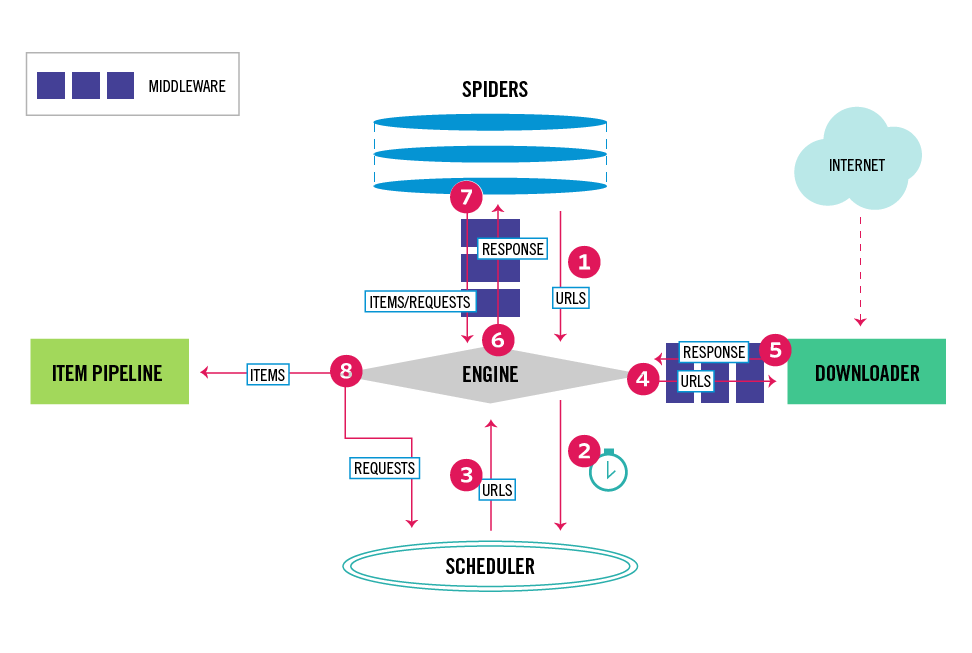
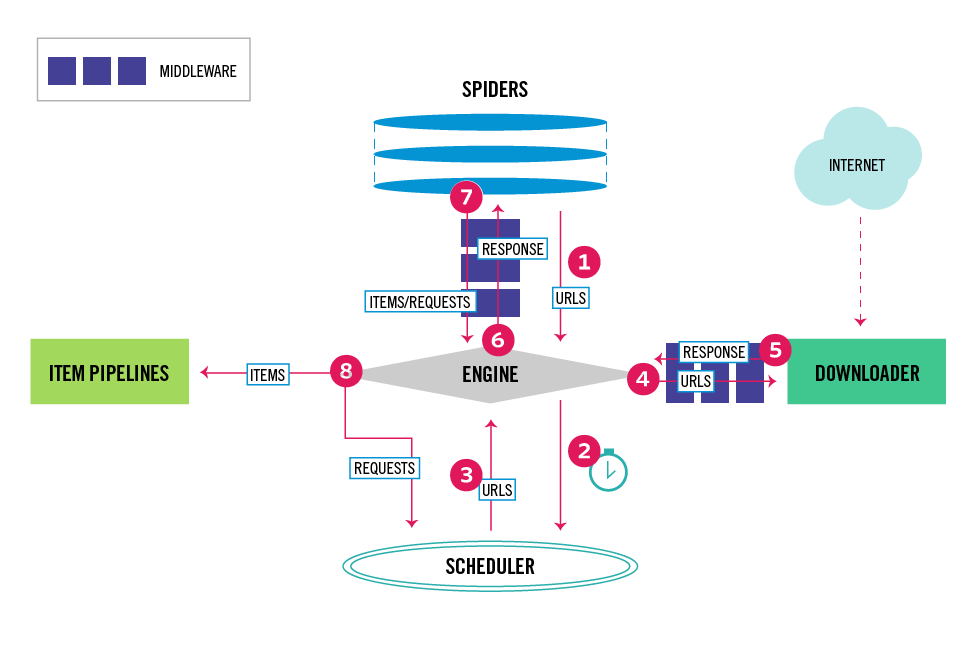
text updates to match graphic

Changed region(s): [[0.0309, 0.0613, 0.2469, 0.1838], [0.0309, 0.5513, 0.1852, 0.5819]]

diff --git a/docs/topics/architecture.rst b/docs/topics/architecture.rst
@@ -99,30 +99,31 @@ Data flow
 The data flow in Scrapy is controlled by the execution engine, and goes like
 this:
 
-1. The Engine gets the first URLs to crawl from the Spider and schedules them
-   in the Scheduler, as Requests.
+1. The Engine gets the first URLs to crawl from the Spider.
 
-2. The Engine asks the Scheduler for the next URLs to crawl.
+2. The Engine schedules the URLs in the Scheduler as Requests and asks for the
+   next URLs to crawl.
 
-3. The Scheduler returns the next URLs to crawl to the Engine and the Engine
-   sends them to the Downloader, passing through the Downloader Middleware
-   (request direction).
+3. The Scheduler returns the next URLs to crawl to the Engine.
 
-4. Once the page finishes downloading the Downloader generates a Response (with
+4. The Engine sends the URLs to the Downloader, passing through the
+   Downloader Middleware (request direction).
+
+5. Once the page finishes downloading the Downloader generates a Response (with
    that page) and sends it to the Engine, passing through the Downloader
    Middleware (response direction).
 
-5. The Engine receives the Response from the Downloader and sends it to the
+6. The Engine receives the Response from the Downloader and sends it to the
    Spider for processing, passing through the Spider Middleware (input direction).
 
-6. The Spider processes the Response and returns scraped items and new Requests
-   (to follow) to the Engine.
+7. The Spider processes the Response and returns scraped items and new Requests
+   (to follow) to the Engine, passing through the Spider Middleware
+   (output direction).
 
-7. The Engine passes scraped items and new Requests returned by a spider
-   through Spider Middleware (output direction), and then sends processed
-   items to Item Pipelines and processed Requests to the Scheduler.
+8. The Engine sends processed items to Item Pipelines and processed Requests to
+   the Scheduler.
 
-8. The process repeats (from step 1) until there are no more requests from the
+9. The process repeats (from step 1) until there are no more requests from the
    Scheduler.
 
 Event-driven networking
